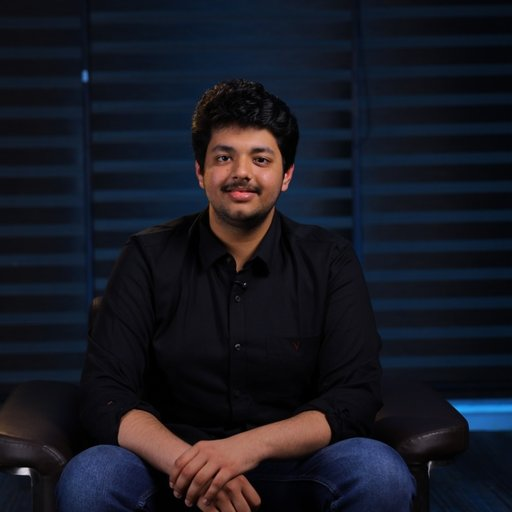
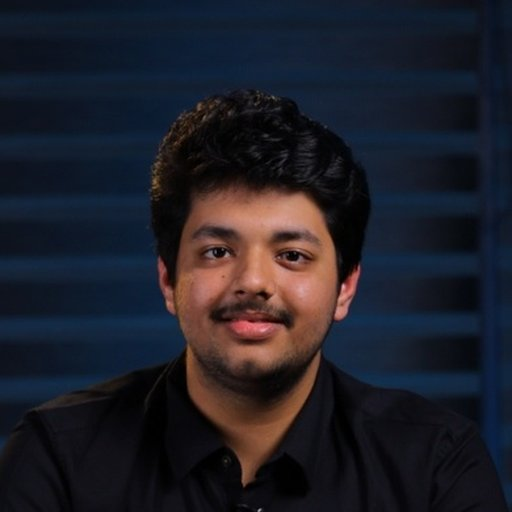
feat: team photos on about, community and event pages

diff --git a/src/app/events/[slug]/page.tsx b/src/app/events/[slug]/page.tsx
@@ -12,6 +12,7 @@ import { SectionHeading } from '@/components/ui/SectionHeading';
 import AccordionGallery from '@/components/ui/AccordionGallery';
 import SpecularButton from '@/components/ui/SpecularButton';
 import FAQAccordion from '@/components/faq/FAQAccordion';
+import { TeamCard } from '@/components/team/TeamCard';
 
 interface EventDetailPageProps {
   params: { slug: string };
@@ -332,22 +333,7 @@ export default function EventDetailPage({ params }: EventDetailPageProps) {
           <SectionHeading eyebrow="Team" title="The people building the platform." />
           <div className="mt-8 grid grid-cols-1 gap-5 md:grid-cols-3">
             {leaders.map((l) => (
-              <figure key={l.id} className="panel flex flex-col gap-4">
-                <div className="flex items-center gap-4">
-                  <div className="flex h-12 w-12 shrink-0 items-center justify-center overflow-hidden rounded-full bg-[#1a1d1e] text-sm font-medium">
-                    {l.photoUrl ? (
-                      <Image src={l.photoUrl} alt={l.name} width={48} height={48} className="h-full w-full object-cover" />
-                    ) : (
-                      l.name.split(' ').map((n) => n[0]).join('')
-                    )}
-                  </div>
-                  <figcaption>
-                    <div className="text-sm font-semibold">{l.name}</div>
-                    <div className="mt-0.5 text-xs font-medium uppercase tracking-wider text-warm-bronze">{l.role}</div>
-                  </figcaption>
-                </div>
-                {l.bio && <blockquote className="text-sm leading-relaxed text-muted-grey">“{l.bio}”</blockquote>}
-              </figure>
+              <TeamCard key={l.id} name={l.name} role={l.role} photo={l.photoUrl || undefined} quote={l.bio} />
             ))}
           </div>
         </section>

diff --git a/src/app/community/page.tsx b/src/app/community/page.tsx
@@ -1,6 +1,7 @@
 import type { Metadata } from 'next';
 import Link from 'next/link';
 import { SectionHeading } from '@/components/ui/SectionHeading';
+import { TeamCard } from '@/components/team/TeamCard';
 import { communityContent, leadershipTeam, organizationConfig } from '@/lib/data/organization';
 
 export const metadata: Metadata = {
@@ -33,14 +34,11 @@ export default function CommunityPage() {
 
       <section className="mt-20 border-t border-surface pt-16">
         <SectionHeading eyebrow="Team" title="The people building it." />
-        <ul className="mt-8 grid grid-cols-1 gap-5 md:grid-cols-3">
+        <div className="mt-8 grid grid-cols-1 gap-5 md:grid-cols-3">
           {leadershipTeam.map((m) => (
-            <li key={m.name} className="panel">
-              <p className="text-base font-semibold text-soft-white">{m.name}</p>
-              <p className="mt-1 text-xs font-medium uppercase tracking-wider text-warm-bronze">{m.role}</p>
-            </li>
+            <TeamCard key={m.name} name={m.name} role={m.role} photo={m.photo} />
           ))}
-        </ul>
+        </div>
         <Link href="/about" className="mt-6 inline-block text-sm text-soft-white underline underline-offset-4">
           More about the team
         </Link>

diff --git a/src/components/team/TeamCard.tsx b/src/components/team/TeamCard.tsx
@@ -1,0 +1,30 @@
+import Image from 'next/image';
+
+interface TeamCardProps {
+  name: string;
+  role: string;
+  photo?: string;
+  quote?: string;
+}
+
+/** One team member: photo, name, role and optional quote. Used on About, Community and event pages. */
+export function TeamCard({ name, role, photo, quote }: TeamCardProps) {
+  return (
+    <figure className="panel flex flex-col gap-5">
+      <div className="flex items-center gap-4">
+        <div className="flex h-20 w-20 shrink-0 items-center justify-center overflow-hidden rounded-full bg-[#1a1d1e] text-base font-medium text-soft-white">
+          {photo ? (
+            <Image src={photo} alt={name} width={160} height={160} className="h-full w-full object-cover" />
+          ) : (
+            name.split(' ').map((n) => n[0]).join('')
+          )}
+        </div>
+        <figcaption>
+          <div className="text-base font-semibold text-soft-white">{name}</div>
+          <div className="mt-1 text-xs font-medium uppercase tracking-wider text-warm-bronze">{role}</div>
+        </figcaption>
+      </div>
+      {quote && <blockquote className="text-sm leading-relaxed text-muted-grey">“{quote}”</blockquote>}
+    </figure>
+  );
+}

diff --git a/src/app/about/page.tsx b/src/app/about/page.tsx
@@ -1,6 +1,7 @@
 import type { Metadata } from 'next';
 import Link from 'next/link';
 import { SectionHeading } from '@/components/ui/SectionHeading';
+import { TeamCard } from '@/components/team/TeamCard';
 import { eventsData } from '@/lib/data/events';
 import { leadershipTeam, organizationConfig } from '@/lib/data/organization';
 
@@ -38,13 +39,7 @@ export default function AboutPage() {
         <SectionHeading eyebrow="Leadership" title="The team." />
         <div className="mt-8 grid grid-cols-1 gap-5 md:grid-cols-3">
           {leadershipTeam.map((m) => (
-            <figure key={m.name} className="space-y-4 rounded-[10px] border border-[#1a1d1e] bg-surface p-6">
-              <figcaption>
-                <div className="text-base font-semibold text-soft-white">{m.name}</div>
-                <div className="text-xs font-medium uppercase tracking-wider text-warm-bronze">{m.role}</div>
-              </figcaption>
-              <blockquote className="text-sm leading-relaxed text-muted-grey">{m.quote}</blockquote>
-            </figure>
+            <TeamCard key={m.name} name={m.name} role={m.role} photo={m.photo} quote={m.quote} />
           ))}
         </div>
       </section>

diff --git a/src/lib/data/organization.ts b/src/lib/data/organization.ts
@@ -76,6 +76,7 @@ export const leadershipTeam = [
   {
     name: 'Vansh Jain',
     role: 'Chief Operating Officer',
+    photo: '/leadership/vansh-jain.jpg',
     quote:
       'Running a conference online means the details decide everything: timing, access, clarity. Our job is to make those invisible, so your only concern is your country’s position.',
   },

diff --git a/IMPLEMENTATION_PLAN.md b/IMPLEMENTATION_PLAN.md
@@ -69,7 +69,7 @@ While `npm run dev` runs, build into a separate folder: `NEXT_DIST_DIR=.next-bui
 - [x] Study-guide `#` links removed. Stock committee banners removed (UNSC was a photo of Barack Obama); the gallery returns when every committee has a real `bannerImage`.
 - [x] "QR delegate pass" claim removed from features and FAQ (no QR pass exists in the code).
 - [x] New photo of Kapish (2026-10-20).
-- [ ] Photo of Vansh when supplied.
+- [x] Photo of Vansh (2026-10-20). All three photos cropped to the face, 512px JPEG. Shared `components/team/TeamCard.tsx` shows them on About, Community and event pages.
 
 ### G. SEO, assets, Vercel (DONE 2026-10-20)
 - [x] Title template `%s | Apex Conclave` (root layout; `app/events/layout.tsx` keeps it for event pages); per-page titles and descriptions; event pages have a canonical URL.
@@ -100,6 +100,6 @@ While `npm run dev` runs, build into a separate folder: `NEXT_DIST_DIR=.next-bui
 - Final country/character lists per committee (`src/lib/data/chambers.ts`; HC has 4 of 18).
 - Real photos for the 5 committees (`bannerImage` in `chambers.ts`) to bring back the committee gallery.
 - Decide on a QR delegate pass (removed from the copy because it was never built).
-- Photo of Vansh; SVG of the logo from the designer.
+- SVG of the logo from the designer.
 - Delete `/Users/kapishgarg1/Apex Conclave/_cleanup_trash/`.
 - Buy the domain, then set `NEXT_PUBLIC_SITE_URL`.

diff --git a/progress.md b/progress.md
@@ -43,6 +43,8 @@ Stack: Next.js 14 (App Router), React 18, TypeScript, Tailwind 3, Framer Motion,
 
 **G (2026-10-20).** Root metadata with title template, `metadataBase` from `lib/site.ts` (site URL, else Vercel production URL, else localhost), Organization JSON-LD; all page titles shortened so the template adds "| Apex Conclave"; `app/events/layout.tsx` gives `/events` its metadata (the page is a client component) and keeps the template for event pages. Added `sitemap.xml`, `robots.txt`, favicon/apple icon/OG image built from the approved logo. Removed the wildcard `images.remotePatterns`; added basic security headers in `next.config.mjs`. New Kapish photo (`public/leadership/kapish-garg.jpg`), Ayush photo compressed. README has Vercel deploy steps. Checked on the dev server: titles, og:image, sitemap, robots, headers.
 
+**Photos (2026-10-20).** Vansh's photo added; Ayush's recropped to the face (from the original in the first commit). New `components/team/TeamCard.tsx` (80px photo, name, role, quote) replaces three separate team markups: About, Community and the event page Team section.
+
 ## Site map
 
 - `/` home: hero, featured event, about, network, Attend · Partner · Collaborate CTA.
